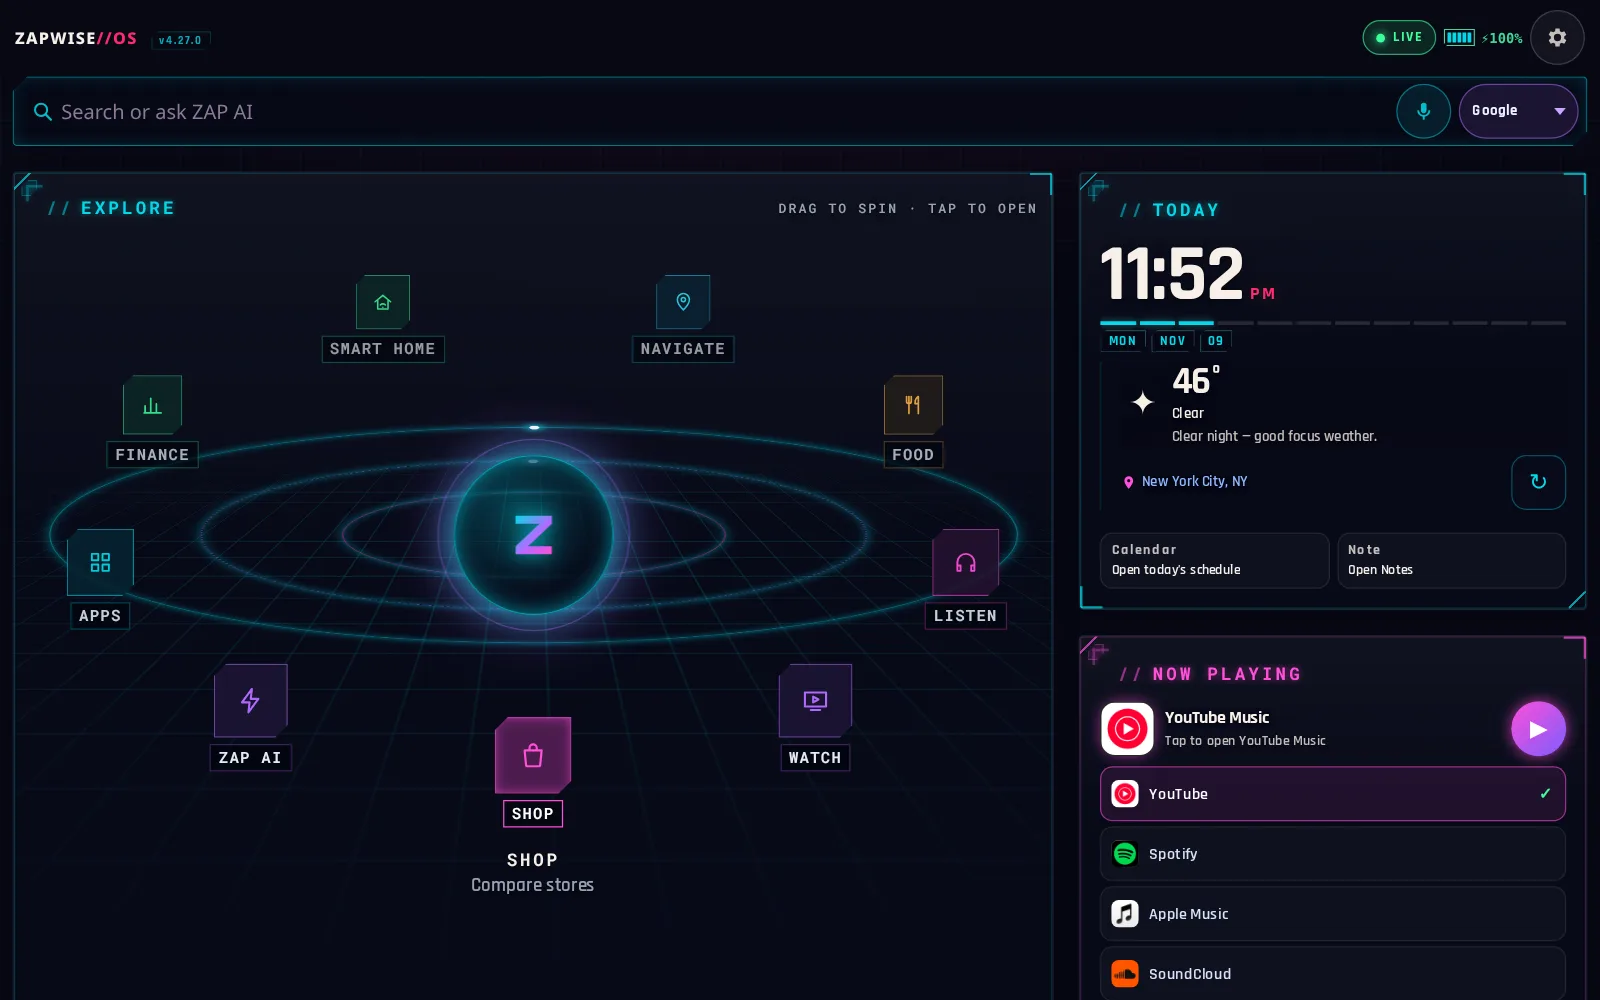
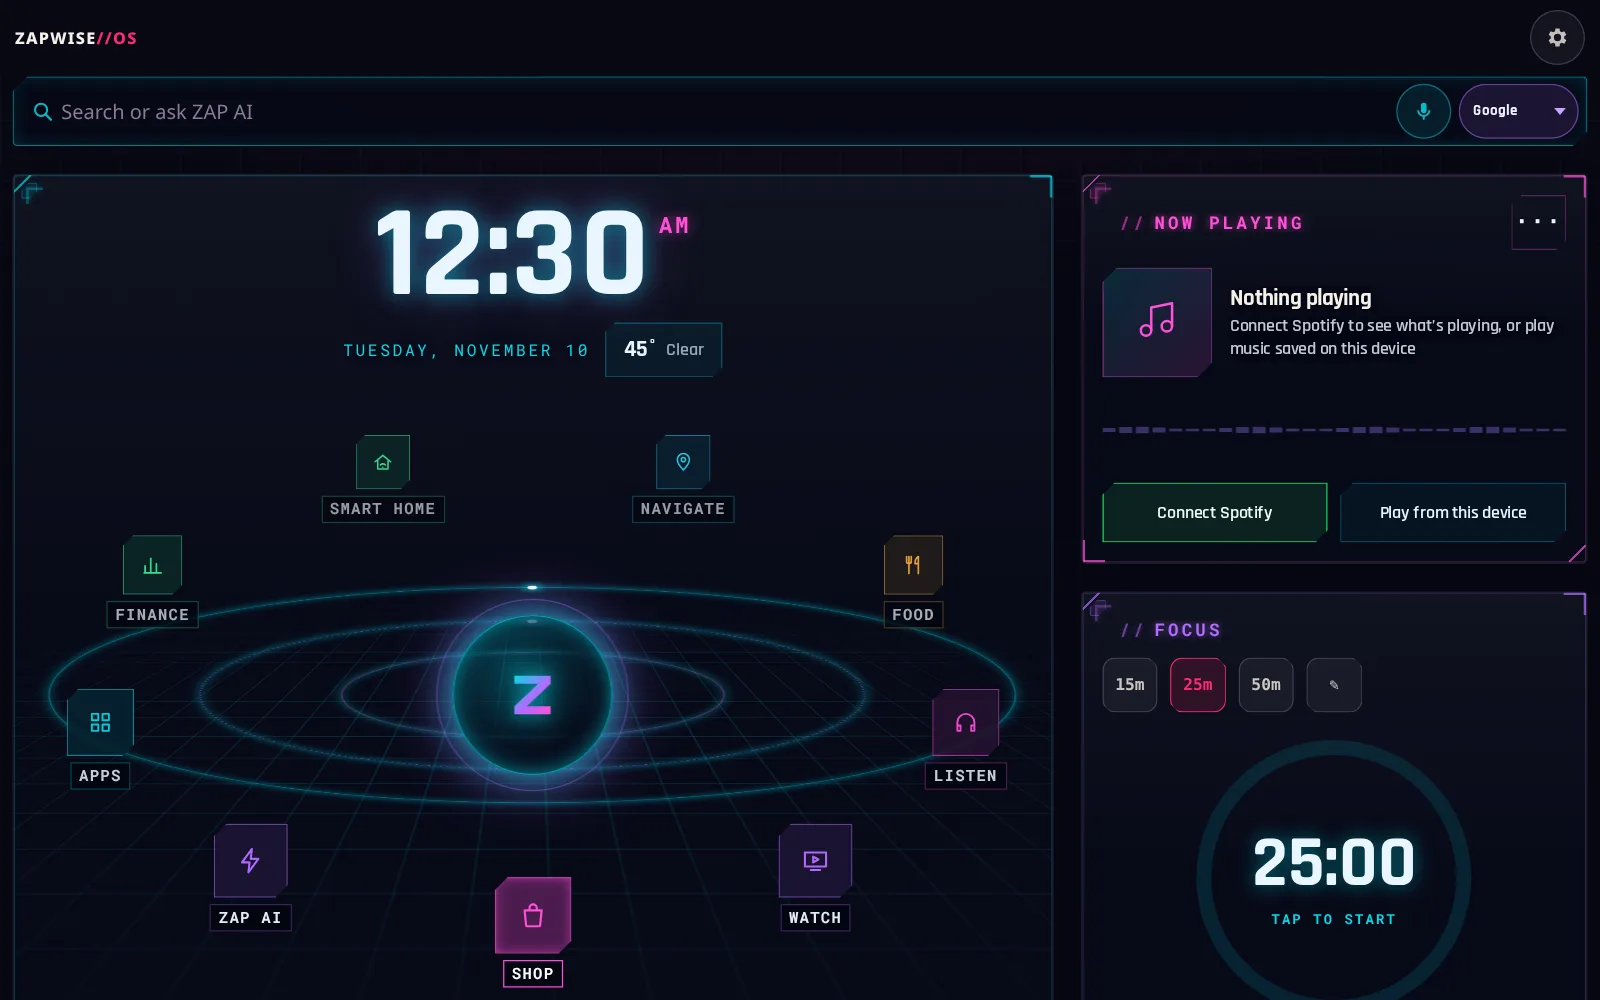
Main site: v4.28 OS screenshots, captions and share image

diff --git a/index.html b/index.html
@@ -44,9 +44,9 @@
 </div></section>
 
 <section class="zw-sec tight zw-see" id="see" aria-labelledby="see-h"><div class="zw-wrap"><span class="zw-kick">The real product</span><h2 id="see-h">This is ZAPWISE//OS today</h2><div class="zw-shots">
-<div class="zw-shot"><picture><source type="image/webp" srcset="/img/os/os-desktop.webp"><img class="" src="/img/os/os-desktop.jpg" alt="ZAPWISE//OS v4.27 on a desktop: the search bar that answers directly, the orbit with nine destinations around a glowing Z, and the Today and Now Playing cards" width="1600" height="1000" loading="lazy" decoding="async"></picture></div>
-<picture><source type="image/webp" srcset="/img/os/os-phone.webp"><img class="ph" src="/img/os/os-phone.jpg" alt="ZAPWISE//OS v4.27 on a phone: Search or ask ZAP AI with one best answer, and the orbit menu under it" width="520" height="1125" loading="lazy" decoding="async"></picture>
-<p class="zw-cap">Real screenshots of ZAPWISE//OS v4.27 taken on Nov 9, 2026 (location set to New York City for the demo, no bank linked). Nothing here is a mockup.</p></div></section>
+<div class="zw-shot"><picture><source type="image/webp" srcset="/img/os/os-desktop.webp"><img class="" src="/img/os/os-desktop.jpg" alt="ZAPWISE//OS v4.28 on a desktop: a big glowing time and date above the orbit of nine destinations, with Now Playing and the Focus ring beside it" width="1600" height="1000" loading="lazy" decoding="async"></picture></div>
+<picture><source type="image/webp" srcset="/img/os/os-phone.webp"><img class="ph" src="/img/os/os-phone.jpg" alt="ZAPWISE//OS v4.28 on a phone: the search bar, then the time and date above the orbit menu" width="520" height="1125" loading="lazy" decoding="async"></picture>
+<p class="zw-cap">Real screenshots of ZAPWISE//OS v4.28 taken on Nov 10, 2026 (location set to New York City for the demo, no bank linked). Nothing here is a mockup.</p></div></section>
 
 <section class="zw-sec tight" id="problem" aria-labelledby="problem-h"><div class="zw-wrap zw-grid zw-g2">
 <div><span class="zw-kick">The problem</span><h2 id="problem-h">Your day is scattered across too many apps</h2>
